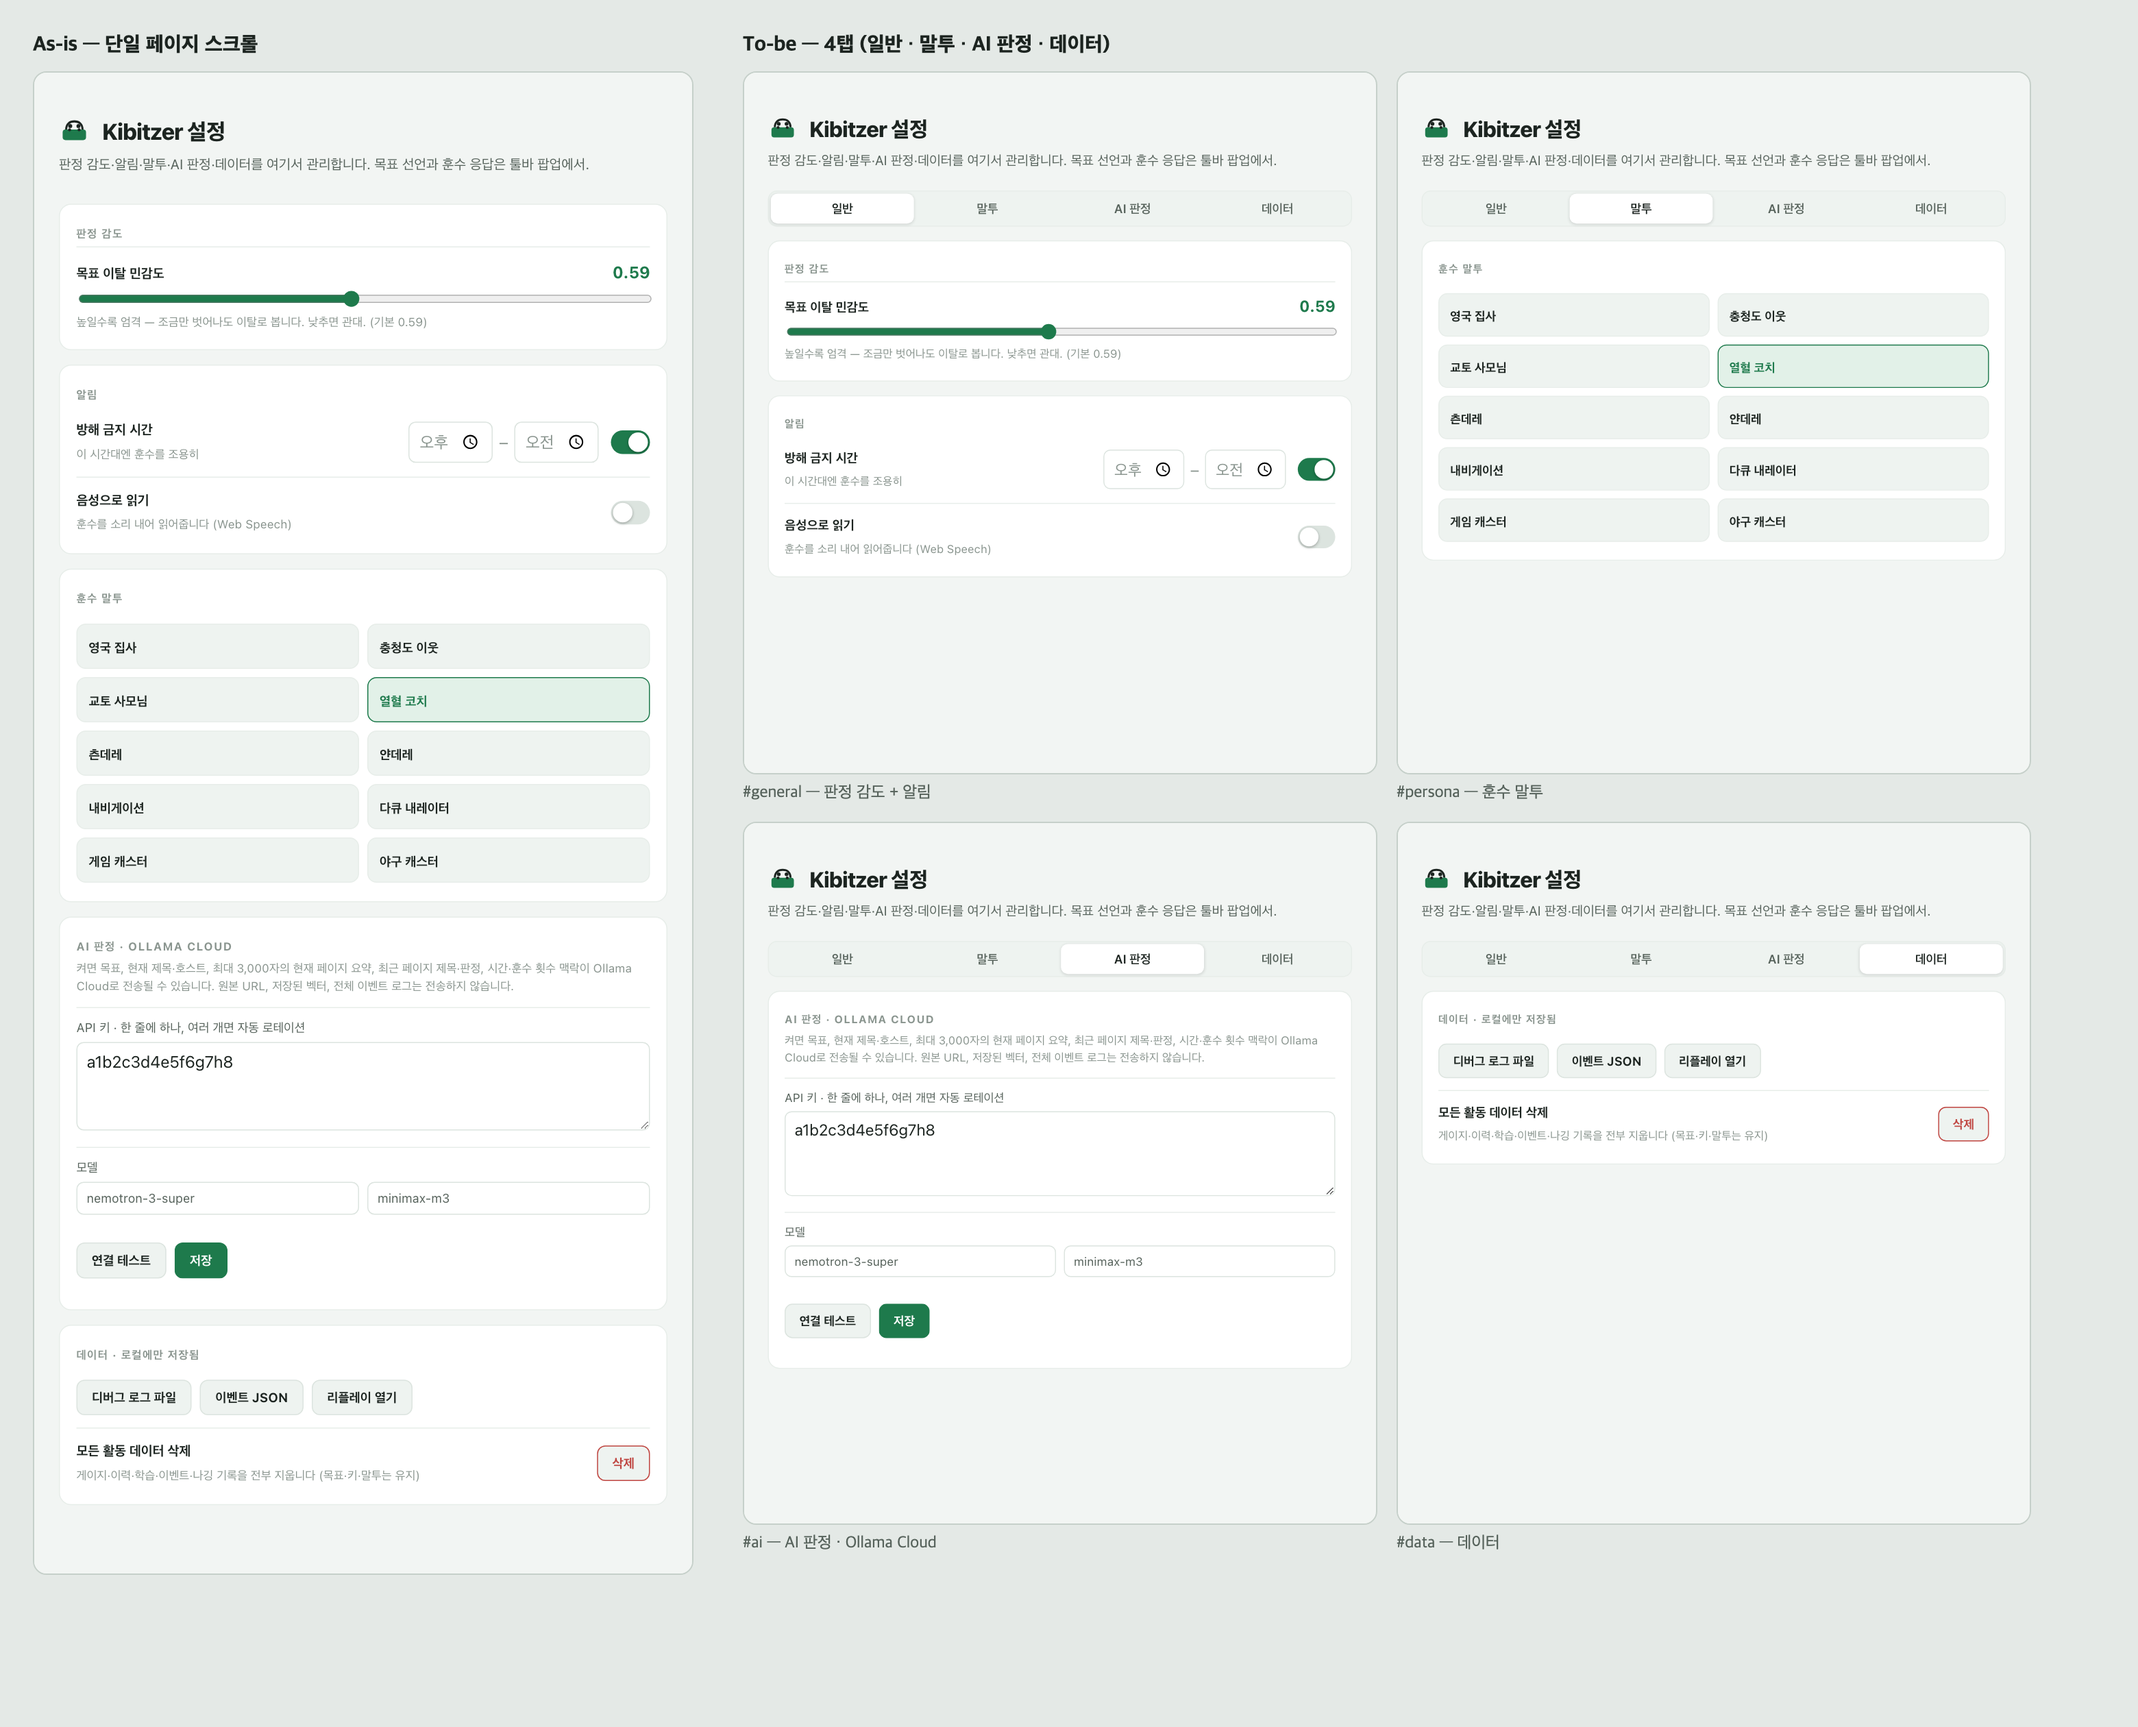
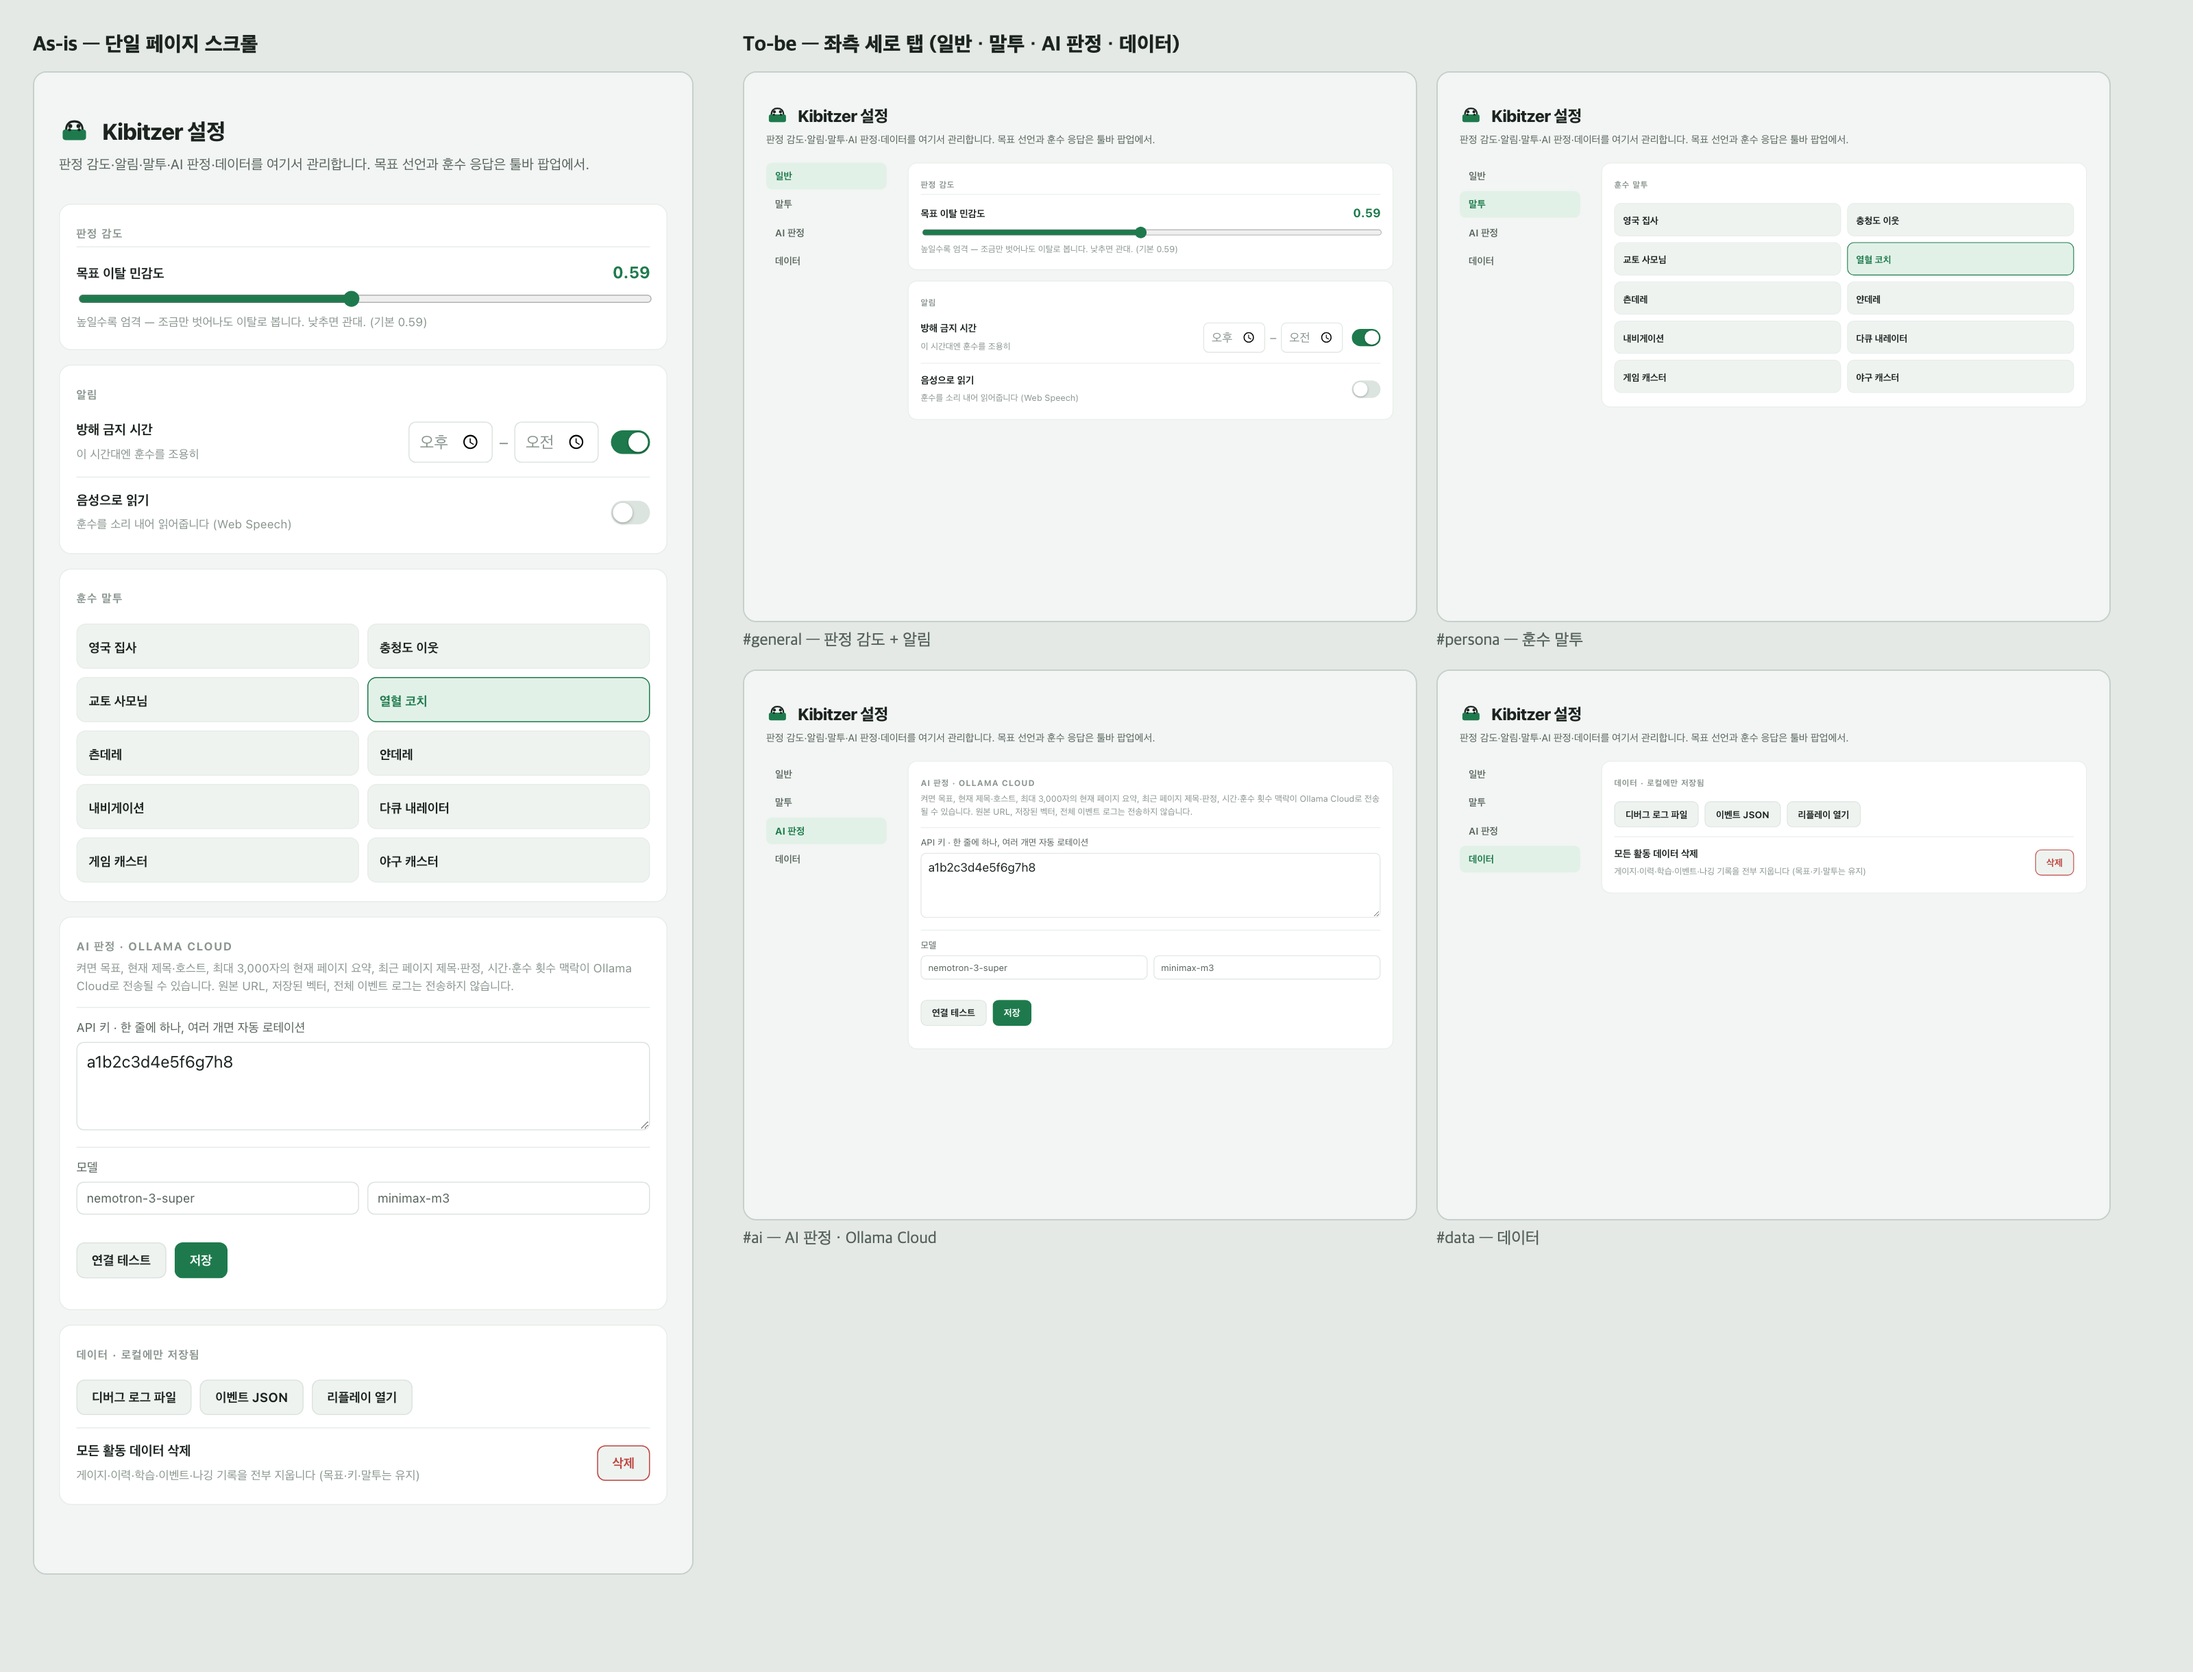
refactor(extension-next): move the options tabs to a left vertical rail

diff --git a/apps/extension-next/src/options/options.html b/apps/extension-next/src/options/options.html
@@ -8,7 +8,7 @@
       :root {
         color-scheme: light dark;
         --page: #f2f5f3; --page-ink: #1c2420; --page-ink-2: #57635c; --page-ink-3: #8a958f;
-        --surface: #ffffff; --surface-2: #eef3f0; --surface-3: #ffffff;
+        --surface: #ffffff; --surface-2: #eef3f0;
         --line: #dce4df; --line-soft: #e7ede9;
         --accent: #1e7a4c; --accent-ink: #ffffff; --accent-soft: #e2f1e8;
         --ok-fg: #175f3b; --err: #bf4540; --err-soft: #f7e2e0; --err-fg: #8f322c;
@@ -16,7 +16,7 @@
       @media (prefers-color-scheme: dark) {
         :root {
           --page: #161b18; --page-ink: #e9efeb; --page-ink-2: #a8b4ad; --page-ink-3: #79857e;
-          --surface: #232a26; --surface-2: #2e3733; --surface-3: #37413c;
+          --surface: #232a26; --surface-2: #2e3733;
           --line: #3c463f; --line-soft: #333d37;
           --accent: #4cc585; --accent-ink: #0c1f14; --accent-soft: #2a4536;
           --ok-fg: #8fdcb4; --err: #e07a72; --err-soft: #4a2a27; --err-fg: #f0a8a1;
@@ -28,20 +28,27 @@
         font-family: -apple-system, BlinkMacSystemFont, "SF Pro Text", "Apple SD Gothic Neo", "Pretendard", "Malgun Gothic", system-ui, sans-serif;
         -webkit-font-smoothing: antialiased; line-height: 1.5;
       }
-      .frame { max-width: 640px; margin: 0 auto; padding: 40px 24px 72px; }
+      .frame { max-width: 880px; margin: 0 auto; padding: 40px 24px 72px; }
       .head { display: flex; align-items: center; gap: 12px; margin-bottom: 6px; }
       .head .name { font-size: 22px; font-weight: 800; letter-spacing: -.02em; }
       .lede { color: var(--page-ink-2); font-size: 13.5px; margin: 0 0 20px; }
 
-      /* tab bar */
-      .tabs { display: grid; grid-template-columns: repeat(4, 1fr); gap: 2px; padding: 2px; margin-bottom: 14px;
-        background: var(--surface-2); border: 1px solid var(--line-soft); border-radius: 9px; }
-      .tabs button { all: unset; text-align: center; font-size: 12.5px; font-weight: 600; padding: 6px 0;
-        border-radius: 7px; color: var(--page-ink-2); cursor: pointer; }
-      .tabs button[aria-selected="true"] { background: var(--surface-3); color: var(--page-ink); box-shadow: 0 1px 3px rgba(0,0,0,.12); }
+      /* left tab rail */
+      .layout { display: flex; gap: 28px; align-items: flex-start; }
+      .tabs { flex: none; width: 160px; display: flex; flex-direction: column; gap: 2px; position: sticky; top: 28px; }
+      .tabs button { all: unset; box-sizing: border-box; width: 100%; cursor: pointer; font-size: 13px; font-weight: 600;
+        color: var(--page-ink-2); padding: 8px 12px; border-radius: 8px; }
+      .tabs button:hover { background: var(--surface-2); color: var(--page-ink); }
+      .tabs button[aria-selected="true"] { background: var(--accent-soft); color: var(--accent); font-weight: 700; }
       .tabs button:focus-visible { outline: 2px solid var(--accent); outline-offset: 1px; }
+      .panes { flex: 1; min-width: 0; }
       .pane { display: none; }
       .pane.on { display: block; }
+      @media (max-width: 720px) {
+        .layout { flex-direction: column; }
+        .tabs { position: static; width: 100%; flex-direction: row; flex-wrap: wrap; }
+        .tabs button { width: auto; flex: 1 1 auto; text-align: center; }
+      }
 
       .card { background: var(--surface); border: 1px solid var(--line-soft); border-radius: 12px; padding: 6px 16px; margin-bottom: 14px; }
       .card > h3 { font-size: 11px; font-weight: 700; letter-spacing: .08em; color: var(--page-ink-3); text-transform: uppercase; margin: 14px 0 4px; }
@@ -119,12 +126,14 @@
       </div>
       <p class="lede">판정 감도·알림·말투·AI 판정·데이터를 여기서 관리합니다. 목표 선언과 훈수 응답은 툴바 팝업에서.</p>
 
-      <div class="tabs" role="tablist" aria-label="설정 분류">
-        <button role="tab" id="tab-general" aria-controls="pane-general" aria-selected="true" data-tab="general">일반</button>
-        <button role="tab" id="tab-persona" aria-controls="pane-persona" aria-selected="false" tabindex="-1" data-tab="persona">말투</button>
-        <button role="tab" id="tab-ai" aria-controls="pane-ai" aria-selected="false" tabindex="-1" data-tab="ai">AI 판정</button>
-        <button role="tab" id="tab-data" aria-controls="pane-data" aria-selected="false" tabindex="-1" data-tab="data">데이터</button>
-      </div>
+      <div class="layout">
+        <nav class="tabs" role="tablist" aria-label="설정 분류" aria-orientation="vertical">
+          <button role="tab" id="tab-general" aria-controls="pane-general" aria-selected="true" data-tab="general">일반</button>
+          <button role="tab" id="tab-persona" aria-controls="pane-persona" aria-selected="false" tabindex="-1" data-tab="persona">말투</button>
+          <button role="tab" id="tab-ai" aria-controls="pane-ai" aria-selected="false" tabindex="-1" data-tab="ai">AI 판정</button>
+          <button role="tab" id="tab-data" aria-controls="pane-data" aria-selected="false" tabindex="-1" data-tab="data">데이터</button>
+        </nav>
+        <div class="panes">
 
       <!-- 일반: 판정 감도 + 알림 -->
       <section class="pane on" id="pane-general" role="tabpanel" aria-labelledby="tab-general" data-pane="general">
@@ -201,6 +210,8 @@
           </div>
         </div>
       </section>
+        </div>
+      </div>
     </div>
     <script type="module" src="options.js"></script>
   </body>

diff --git a/apps/extension-next/src/options/options.ts b/apps/extension-next/src/options/options.ts
@@ -95,9 +95,10 @@ function selectTab(key: string, focus = false): void {
 tabButtons.forEach((b, i) => {
   b.addEventListener("click", () => selectTab(b.dataset.tab ?? ""))
   b.addEventListener("keydown", (e) => {
-    if (e.key !== "ArrowLeft" && e.key !== "ArrowRight") return
+    const fwd = e.key === "ArrowDown" || e.key === "ArrowRight"
+    if (!fwd && e.key !== "ArrowUp" && e.key !== "ArrowLeft") return
     e.preventDefault()
-    const step = e.key === "ArrowRight" ? 1 : tabButtons.length - 1
+    const step = fwd ? 1 : tabButtons.length - 1
     const next = tabButtons[(i + step) % tabButtons.length]
     selectTab(next.dataset.tab ?? "", true)
   })
